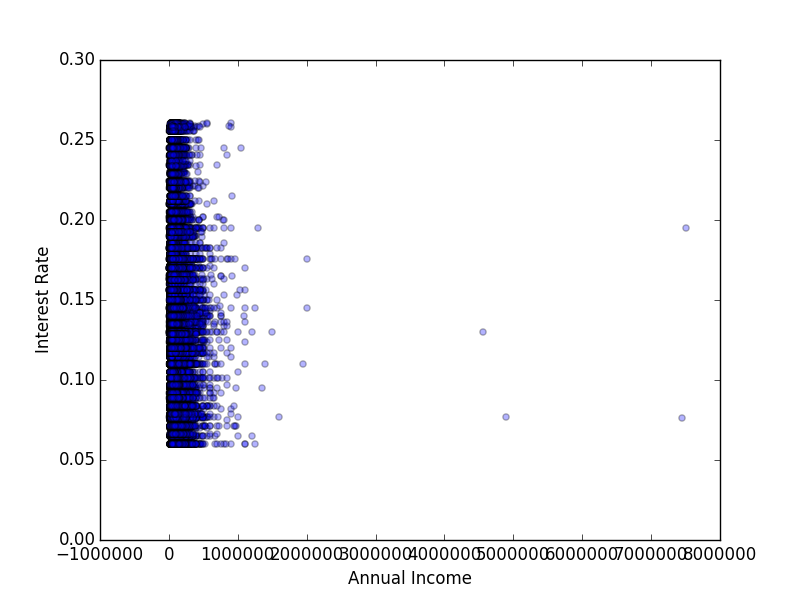
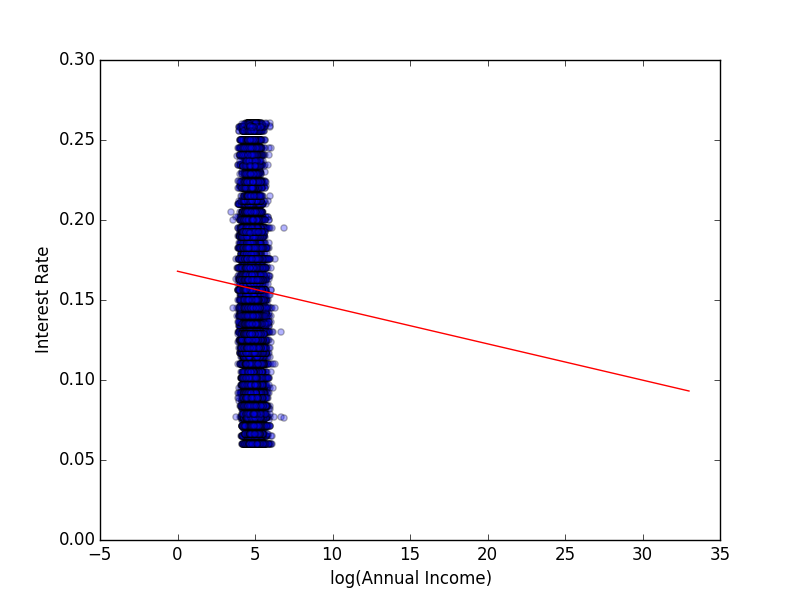
update model to include dependence on log(annual income)

diff --git a/multivariate/multivariate.py b/multivariate/multivariate.py
@@ -6,7 +6,7 @@ import statsmodels.formula.api as smf
 
 
 # load the 2014 lending club statistics
-df = pd.read_csv('LoanStats3c.csv', skiprows=1)
+df = pd.read_csv('LoanStats3c.csv', skiprows=1, low_memory=False)
 
 
 # ---------------
@@ -15,8 +15,7 @@ df = pd.read_csv('LoanStats3c.csv', skiprows=1)
 
 # remove null values and "NaN"
 df = df[['int_rate','annual_inc','home_ownership']]
-df.dropna(inplace=True)
-df = df[df.int_rate != 'NaN']
+df.dropna(subset=['issue_d'], inplace=True)
 
 # strip percent signs in int_rate and covert to float
 df['int_rate'] = df['int_rate'].map(lambda \
@@ -25,6 +24,9 @@ df['int_rate'] = df['int_rate'].map(lambda \
 # convert incomes to integers
 df['annual_inc'] = df['annual_inc'].map(lambda element: int(element))
 
+# transform income via log, base 10 (because correlation with annual_inc is weak)
+df['log10_inc'] = df['annual_inc'].map(lambda num: np.log10(num))
+
 
 # -------------------------------
 # MODEL INTEREST RATE VS. INCOME
@@ -32,13 +34,14 @@ df['annual_inc'] = df['annual_inc'].map(lambda element: int(element))
 
 # variables
 intrate = df['int_rate']
-annualincome = df['annual_inc']
+#annualincome = df['annual_inc']
+annualincomelog = df['log10_inc']
 
 # shape data
 # The dependent variable
 y = np.matrix(intrate).transpose()
 # The independent variables shaped as columns
-x = np.matrix(annualincome).transpose()
+x = np.matrix(annualincomelog).transpose()
 
 # add column of ones (constant)
 X = sm.add_constant(x)
@@ -50,16 +53,14 @@ print 'Intercept: ', model1.params[0]
 print 'P-Values: ', model1.pvalues  # ??? why do these come out zero ???
 print 'R-Squared: ', model1.rsquared
 
-# NOTE: this does not appear to model the data very well.  The intercept, is
-# basically the mean of the interest rates, and the r-squared indicates that
-# the model does not fit the data very well. The coefficient of the annual 
-# income is so small, it seems negligible.
 # To visualize this see the following plot:
+logsample = np.arange(min(df['log10_inc']), max(df['log10_inc']), 0.1)
 plt.figure()
-plt.scatter(df['annual_inc'], \
+plt.scatter(df['log10_inc'], \
 	df['int_rate'], alpha=0.3)
-plt.xlabel('Annual Income')
+plt.xlabel('log(Annual Income)')
 plt.ylabel('Interest Rate')
+plt.plot(model1.params[0] + model1.params[1]*logsample, 'r')
 plt.draw()
 plt.savefig('rate_vs_income.png')
 
@@ -73,7 +74,7 @@ plt.savefig('rate_vs_income.png')
 df['home_dummy'] = pd.Categorical(df.home_ownership).labels
 
 # Multiple regression model
-model2 = smf.ols(formula="int_rate ~ home_dummy + annual_inc", data=df).fit()
+model2 = smf.ols(formula="int_rate ~ home_dummy + log10_inc", data=df).fit()
 print model2.summary()
 
 
@@ -86,5 +87,5 @@ print model2.summary()
 df['home_dummy'] = pd.Categorical(df.home_ownership).labels
 
 # Multiple regression model
-model3 = smf.ols(formula="int_rate ~ home_dummy*annual_inc", data=df).fit()
+model3 = smf.ols(formula="int_rate ~ home_dummy*log10_inc", data=df).fit()
 print model3.summary()
